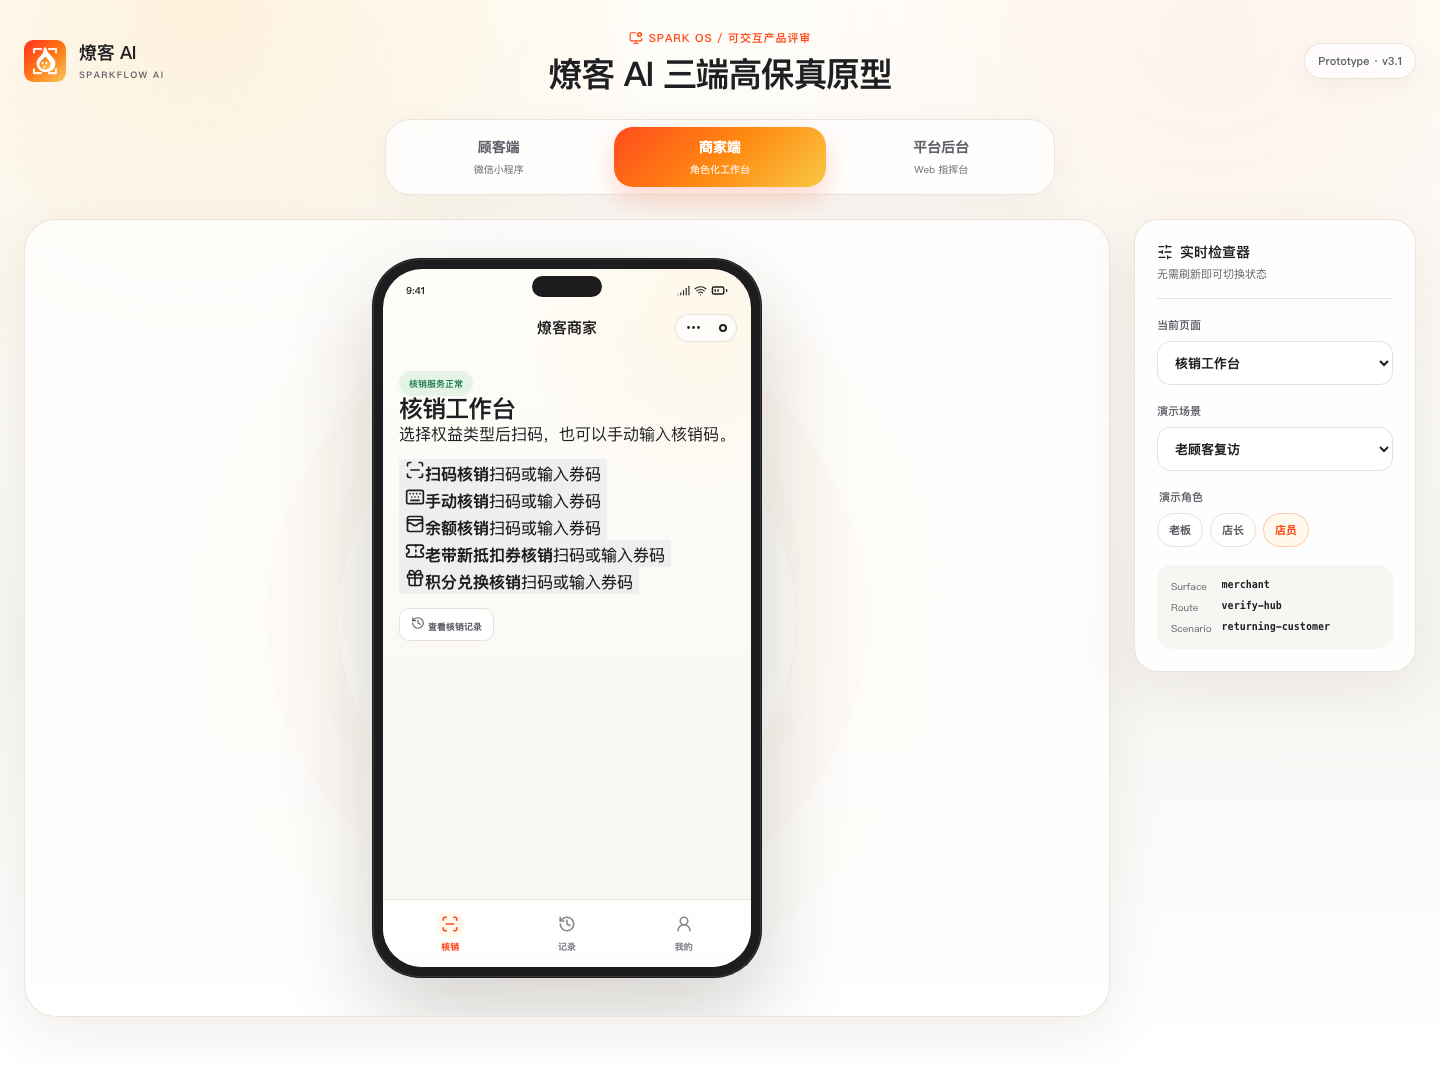
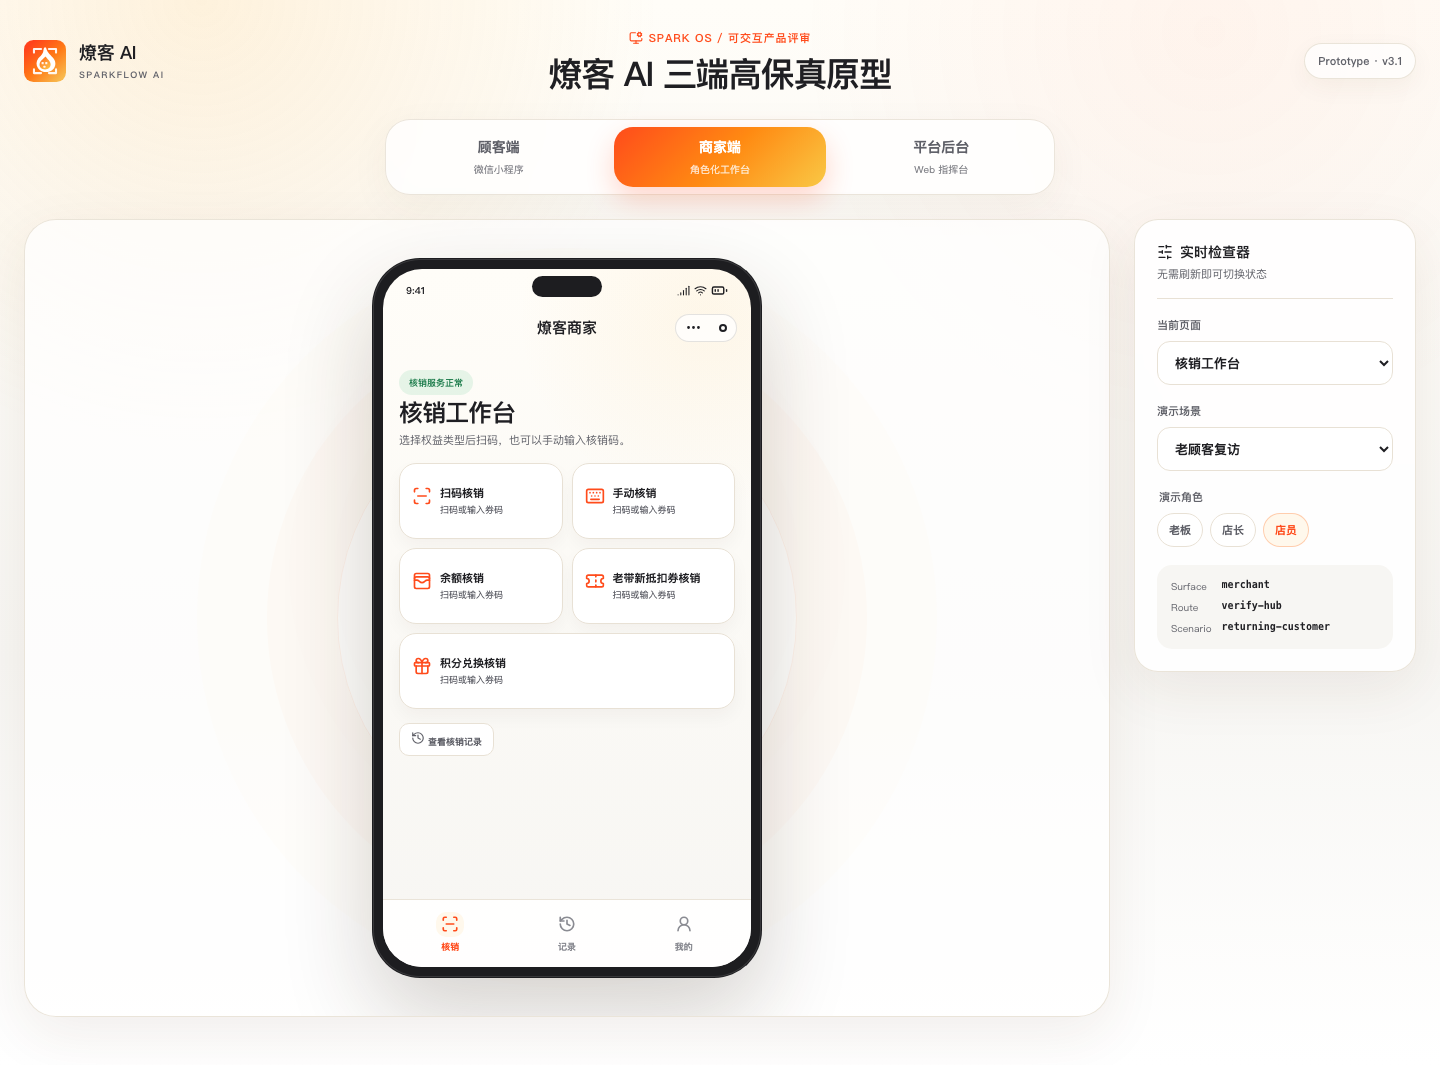
fix: polish merchant verification handoff

Changed region(s): [[0.2812, 0.3408, 0.5, 0.6507], [0.2812, 0.6817, 0.3438, 0.7127]]

diff --git a/tests/e2e/merchant-flows.spec.js b/tests/e2e/merchant-flows.spec.js
@@ -1,13 +1,37 @@
 import { expect, test } from "@playwright/test";
 
+test("verification modes render as five distinct legible controls", async ({ page }) => {
+  await page.goto("/?surface=merchant&role=staff&route=verify-hub");
+
+  const controls = page.locator(".merchant-verify-grid > button");
+  await expect(controls).toHaveCount(5);
+  for (const control of await controls.all()) {
+    await expect(control).toHaveCSS("display", "grid");
+    await expect(control).toHaveCSS("background-color", "rgb(255, 255, 255)");
+    await expect(control.locator("strong")).toBeVisible();
+    await expect(control.locator("span")).toBeVisible();
+  }
+});
+
 test("captures the two merchant handoff screenshots", async ({ page }) => {
   await page.setViewportSize({ width: 1440, height: 1000 });
+  await page.emulateMedia({ reducedMotion: "reduce" });
   for (const [route, role, filename] of [
     ["merchant-dashboard", "owner", "merchant-dashboard.png"],
     ["verify-hub", "staff", "merchant-verification.png"],
   ]) {
-    await page.goto(`/?surface=merchant&role=${role}&route=${route}`);
+    await page.goto(`/?surface=merchant&role=${role}&route=${route}`, { waitUntil: "networkidle" });
     await expect(page.locator(`[data-route-id="${route}"]`)).toBeVisible();
+    await expect(page.getByText("实时检查器", { exact: true })).toBeVisible();
+    await expect(page.getByRole("dialog")).toHaveCount(0);
+    await page.evaluate(async () => {
+      await document.fonts.ready;
+      await new Promise((resolve) => requestAnimationFrame(() => requestAnimationFrame(resolve)));
+    });
+    if (route === "verify-hub") {
+      await expect(page.getByRole("heading", { name: "核销工作台" })).toBeVisible();
+      await expect(page.locator(".merchant-verify-grid > button")).toHaveCount(5);
+    }
     await page.screenshot({ path: `artifacts/screenshots/prototype/${filename}`, fullPage: true });
   }
 });

diff --git a/src/prototype/styles/merchant.css b/src/prototype/styles/merchant.css
@@ -47,6 +47,16 @@
 .merchant-secondary-action { justify-self: start; padding: 7px 11px; border: 1px solid var(--line); border-radius: 10px; background: #fff; color: var(--ink-600); font-size: 9px; font-weight: 800; }
 .merchant-readonly { color: var(--ink-600); font-size: 9px; }
 
+.merchant-page-heading { display: grid; gap: 5px; }
+.merchant-page-heading .status-pill { justify-self: start; }
+.merchant-page-heading p { color: var(--ink-600); font-size: 11px; line-height: 1.5; }
+.merchant-verify-grid { display: grid; grid-template-columns: repeat(2, minmax(0, 1fr)); gap: 9px; }
+.merchant-verify-grid > button { display: grid; grid-template-columns: auto minmax(0, 1fr); gap: 4px 8px; min-width: 0; min-height: 76px; align-content: center; padding: 12px; border: 1px solid var(--line); border-radius: 17px; background: #fff; color: var(--ink-900); text-align: left; box-shadow: 0 8px 18px rgba(41, 33, 28, .04); }
+.merchant-verify-grid > button:last-child { grid-column: 1 / -1; }
+.merchant-verify-grid svg { grid-row: 1 / 3; align-self: start; color: var(--ember-600); }
+.merchant-verify-grid strong { overflow-wrap: anywhere; font-size: 11px; line-height: 1.3; }
+.merchant-verify-grid span { color: var(--ink-600); font-size: 9px; line-height: 1.35; }
+
 .merchant-cost-warning { display: grid; grid-template-columns: auto 1fr; gap: 10px; align-items: center; padding: 13px 14px; border: 1px solid rgba(217,64,52,.16); border-radius: 18px; background: rgba(217,64,52,.055); color: #b22f27; }
 .merchant-cost-warning div { display: grid; gap: 3px; }
 .merchant-cost-warning strong { font-size: 11px; }
